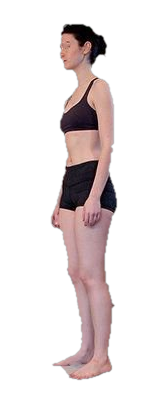
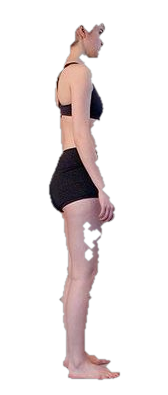
Athlete 360: revert interpolation, use the 12 clean real frames
The 36-frame optical-flow interpolation made rotation look rubbery/warped
mid-motion (synthesized from only 12 low-res, non-turntable placeholder shots).
Reverting to the 12 stabilized real frames, which stay sharp: aligned + crossfade
+ momentum, and settle onto any frame (all 12 are real now, so settleStep = 1).

- media_360 back to 12 frames + the 12-keyframe hotspots (audited RPC).
- Interpolated display frames removed; the 12 stabilized cut-outs are the served
  frames again. `_src/` (raw + stabilized keyframes) and scripts/interpolate-360.py
  are kept as tooling, ready to regenerate a higher frame count from real
  higher-angle photos later.
- The more-dramatic neon stage stays.

No change to pricing, other athletes, or the drag interaction.

Claude-Session: https://claude.ai/code/session_0176fNLoyiYQNQWZFWJrYo36

Changed region(s): [[0.2679, 0.0608, 0.7143, 0.9722]]

diff --git a/lib/config.ts b/lib/config.ts
@@ -143,12 +143,11 @@ export const VIEWER_360 = {
    */
   snapOnSettle: true,
   /**
-   * Settle only onto every Nth frame. With interpolated sequences the real
-   * source frames are every `settleStep`-th (here 3 => the 12 real angles of a
-   * 36-frame set), so rest always lands on a clean photo while motion still uses
-   * all frames for smoothness. Set 1 to settle onto any frame.
+   * Settle onto every Nth frame. For an interpolated sequence set this to the
+   * interpolation factor so rest lands on a real source frame; for a plain
+   * sequence of real frames (the current 12) keep 1 (every frame is real).
    */
-  settleStep: 3,
+  settleStep: 1,
   /**
    * On-screen size of the athlete figure inside the full-screen stage. Height
    * is capped to a share of the viewport so the whole body (head to feet) fits;
